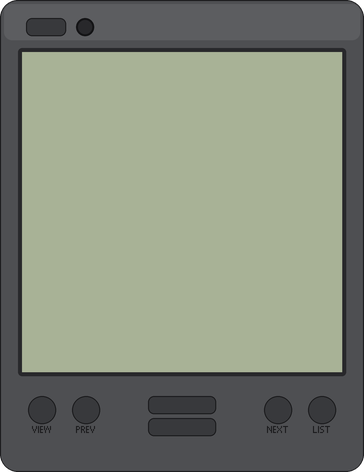
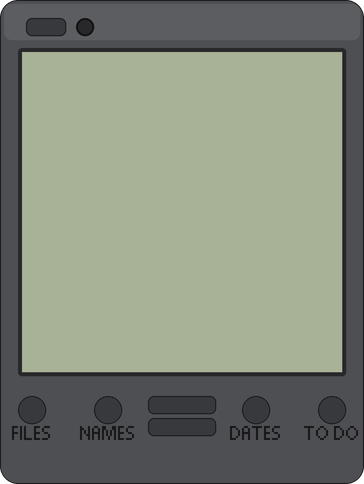
The four keys open the four programs, with labels you can read
FILES, NAMES, DATES, TO DO on the case, as a Palm's application keys were; the
rocker pages, which is what you use when you cannot aim; the launcher is a tap
on the title bar. Labels drawn at full size and the keys spread so they fit.
The check now proves scrolling, by rocker and by the arrow in the margin.

diff --git a/tools/build_organiser_art.py b/tools/build_organiser_art.py
@@ -33,16 +33,23 @@ SS = 4                      # supersample, so curves are smooth at every scale
 # The real thing had a 160 x 160 screen, so that is the glass, and everything
 # else is measured around it (owner, 2026-09-12). The whole case is then scaled
 # up by a whole number, never stretched.
-W, H = 182, 236             # the case, in native pixels
+W, H = 182, 242             # the case, in native pixels (room for real labels)
 GLASS = (11, 26, 160, 160)  # x, y, w, h - the original's own screen
 BTN0 = 14                   # round button diameter
 BTN = BTN0
 # Mirrored about the centre line: the right-hand pair sat 28 px from the edge
 # while the left pair sat 14 (owner, 2026-09-12: "buttons are not alligned").
-BTNS = {"MODE": (14, 198), "PREV": (36, 198), "NEXT": (W - 36 - BTN0, 198), "INDEX": (W - 14 - BTN0, 198)}
+# Spread so the labels do not run into each other: a real label needs the room
+# a two-pixel one did not.
+BTNS = {"MODE": (9, 198), "PREV": (47, 198), "NEXT": (W - 47 - BTN0, 198), "INDEX": (W - 9 - BTN0, 198)}
 # Palm's own buttons carried a label under the key; the guidelines call for the
 # frequent commands to be one press, named, not hidden in a menu.
-LABELS = {"MODE": "VIEW", "PREV": "PREV", "NEXT": "NEXT", "INDEX": "LIST"}
+# A Palm's four keys opened its four applications - Date, Address, To Do, Memo
+# - and so do these. The launcher is a tap on the title bar, as Home was a tap
+# on the silkscreen. Owner, 2026-09-12: "what do we need the buttons in the
+# middle for now that we have a touch screen?" - the rocker is what you use
+# when you cannot aim: walking, or with something coming.
+LABELS = {"MODE": "FILES", "PREV": "NAMES", "NEXT": "DATES", "INDEX": "TO DO"}
 ROCKER = ((W - 34) // 2, 198, 34, 9)   # x, y, w, h of the upper half; lower half sits 11 below
 ROCKER_GAP = 11
 POWER = (13, 9, 20, 9)
@@ -83,11 +90,13 @@ def draw_case(scale):
         bx, by = bx * s, by * s
         d.ellipse([bx, by, bx + BTN * s, by + BTN * s], fill=DEEP, outline=EDGE, width=max(1, s // 2))
     # Labels, in the device's own face, under each key.
-    face = ImageFont.truetype(os.path.join(REPO, "mod/common/media/fonts/palm-os.otf"), 16 * s // 2)
+    # Full size, not half: the labels were legible only to someone who knew
+    # what they said (owner, 2026-09-12).
+    face = ImageFont.truetype(os.path.join(REPO, "mod/common/media/fonts/palm-os.otf"), 16 * s)
     for name, (bx, by) in BTNS.items():
         label = LABELS[name]
         tw = face.getlength(label)
-        d.text((bx * s + (BTN * s - tw) / 2, (by + BTN) * s), label, font=face, fill=EDGE)
+        d.text((bx * s + (BTN * s - tw) / 2, (by + BTN - 1) * s), label, font=face, fill=(24, 24, 26, 255))
     # The rocker, two pills.
     rx, ry, rw, rh = [v * s for v in ROCKER]
     for offset in (0, ROCKER_GAP * s):
